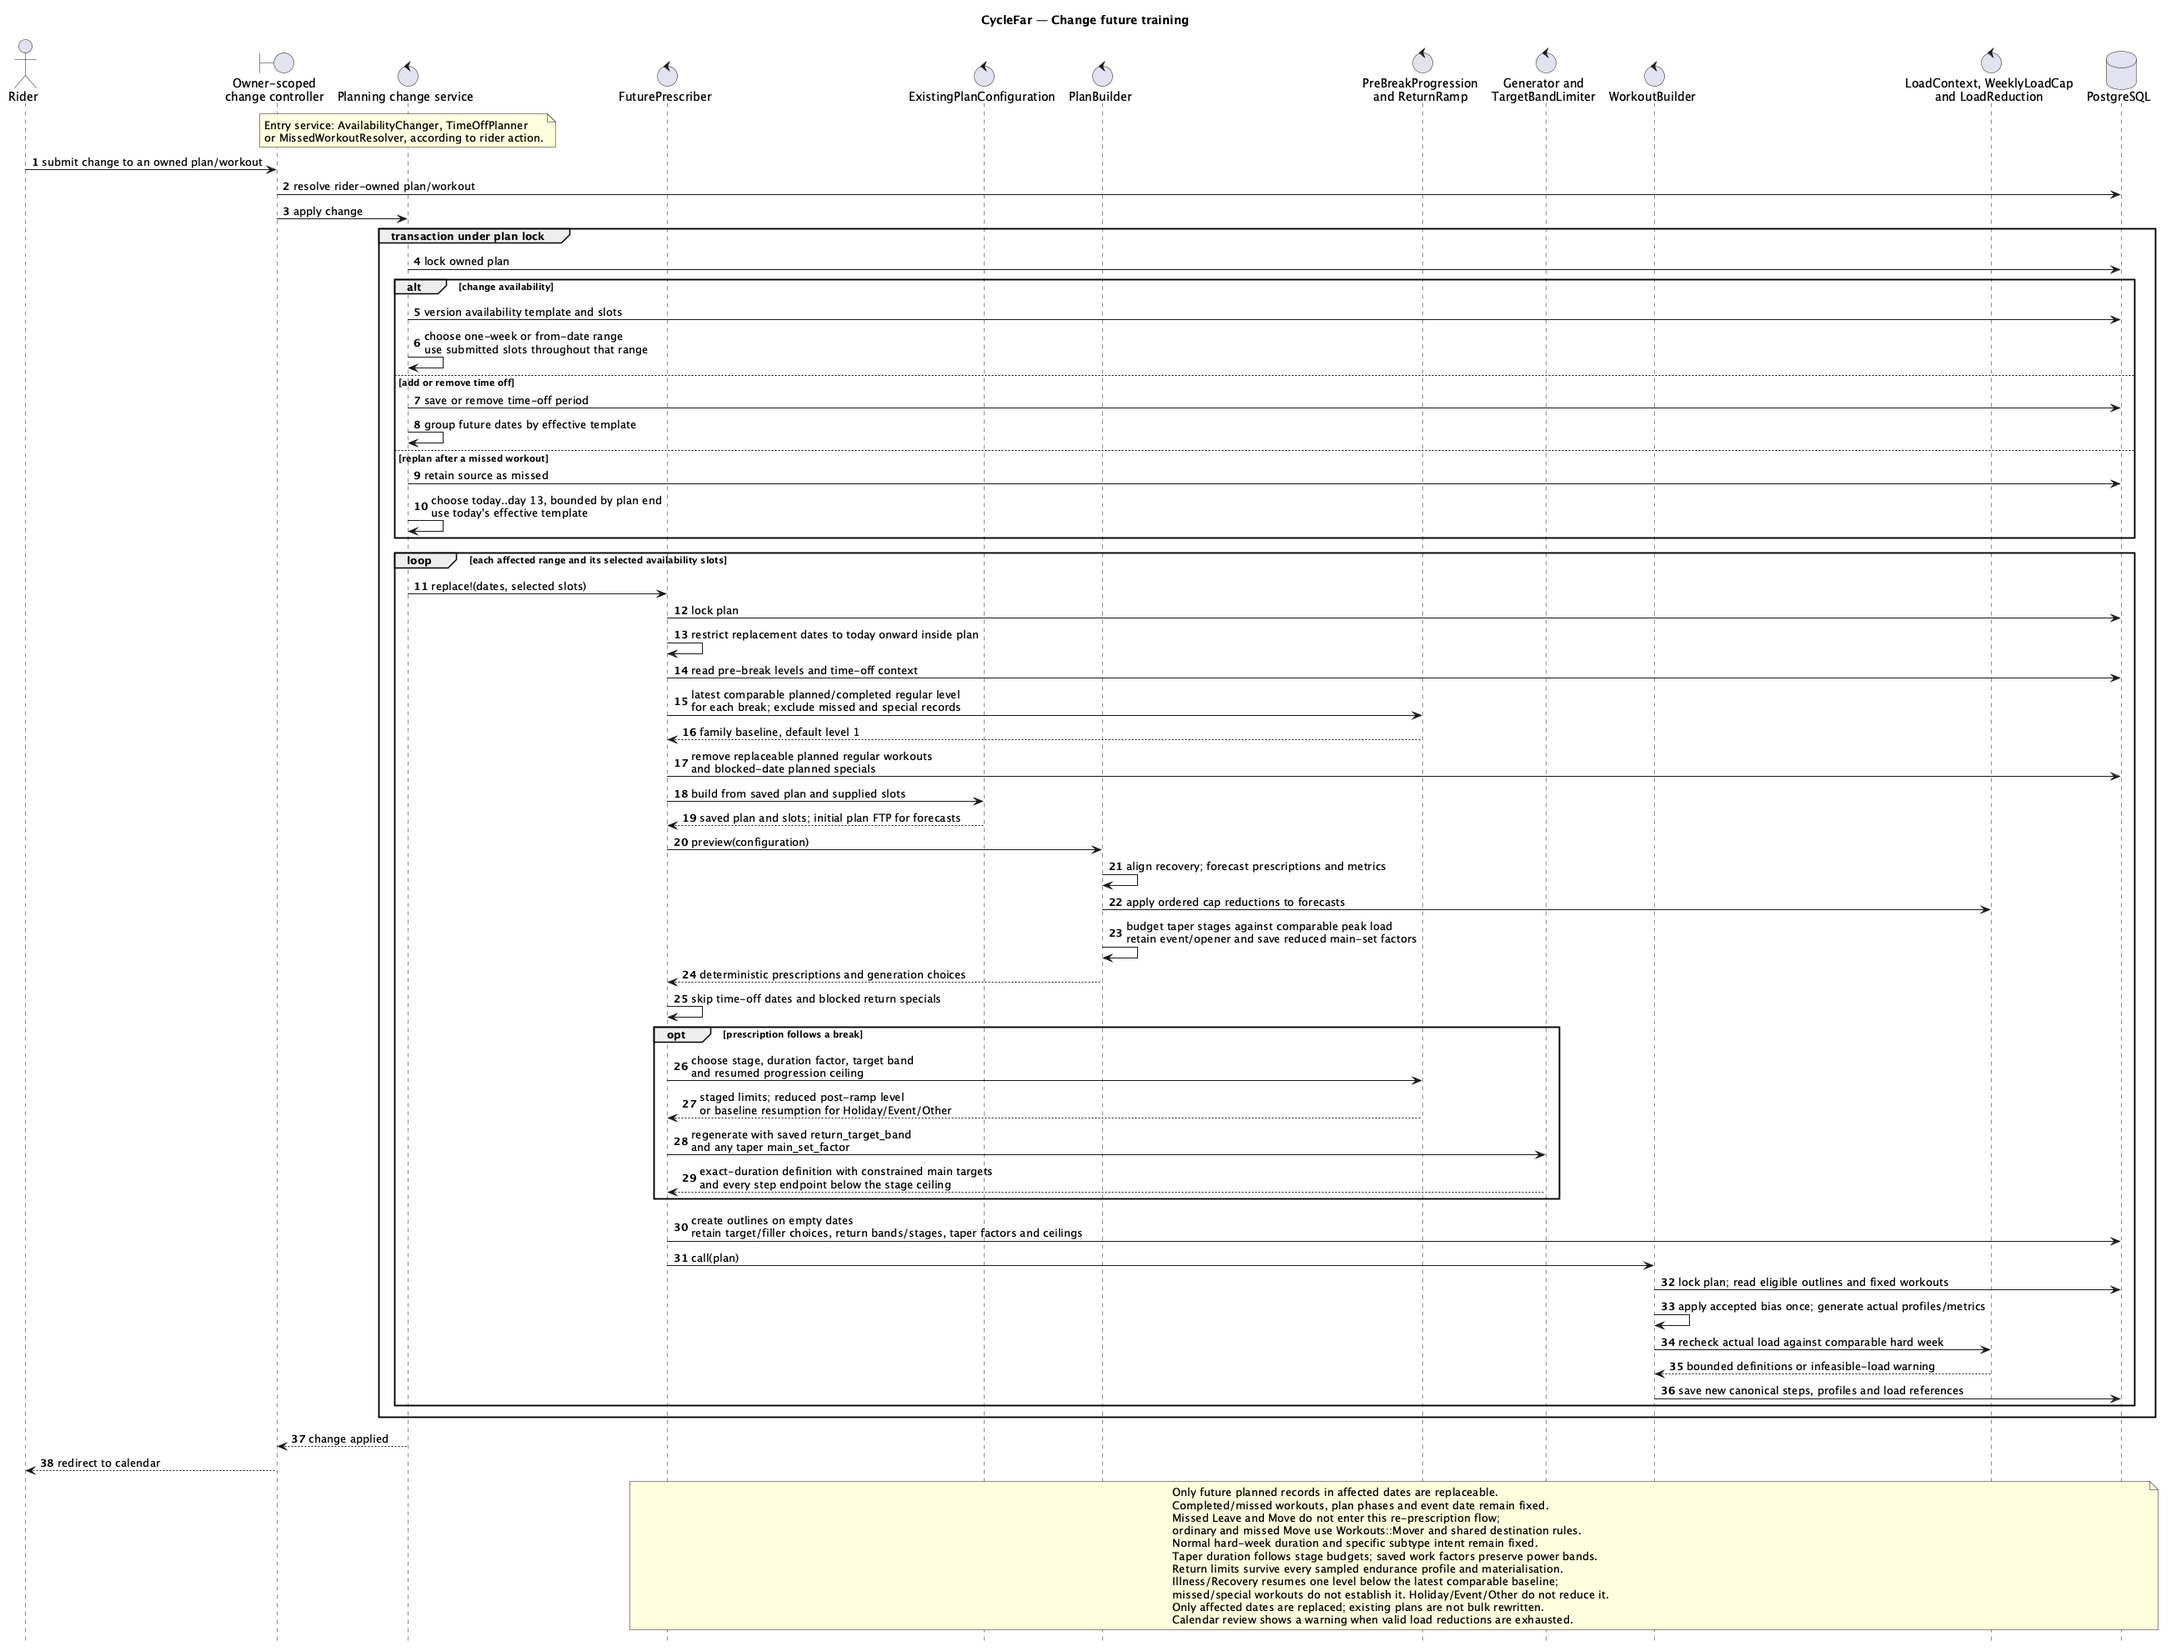
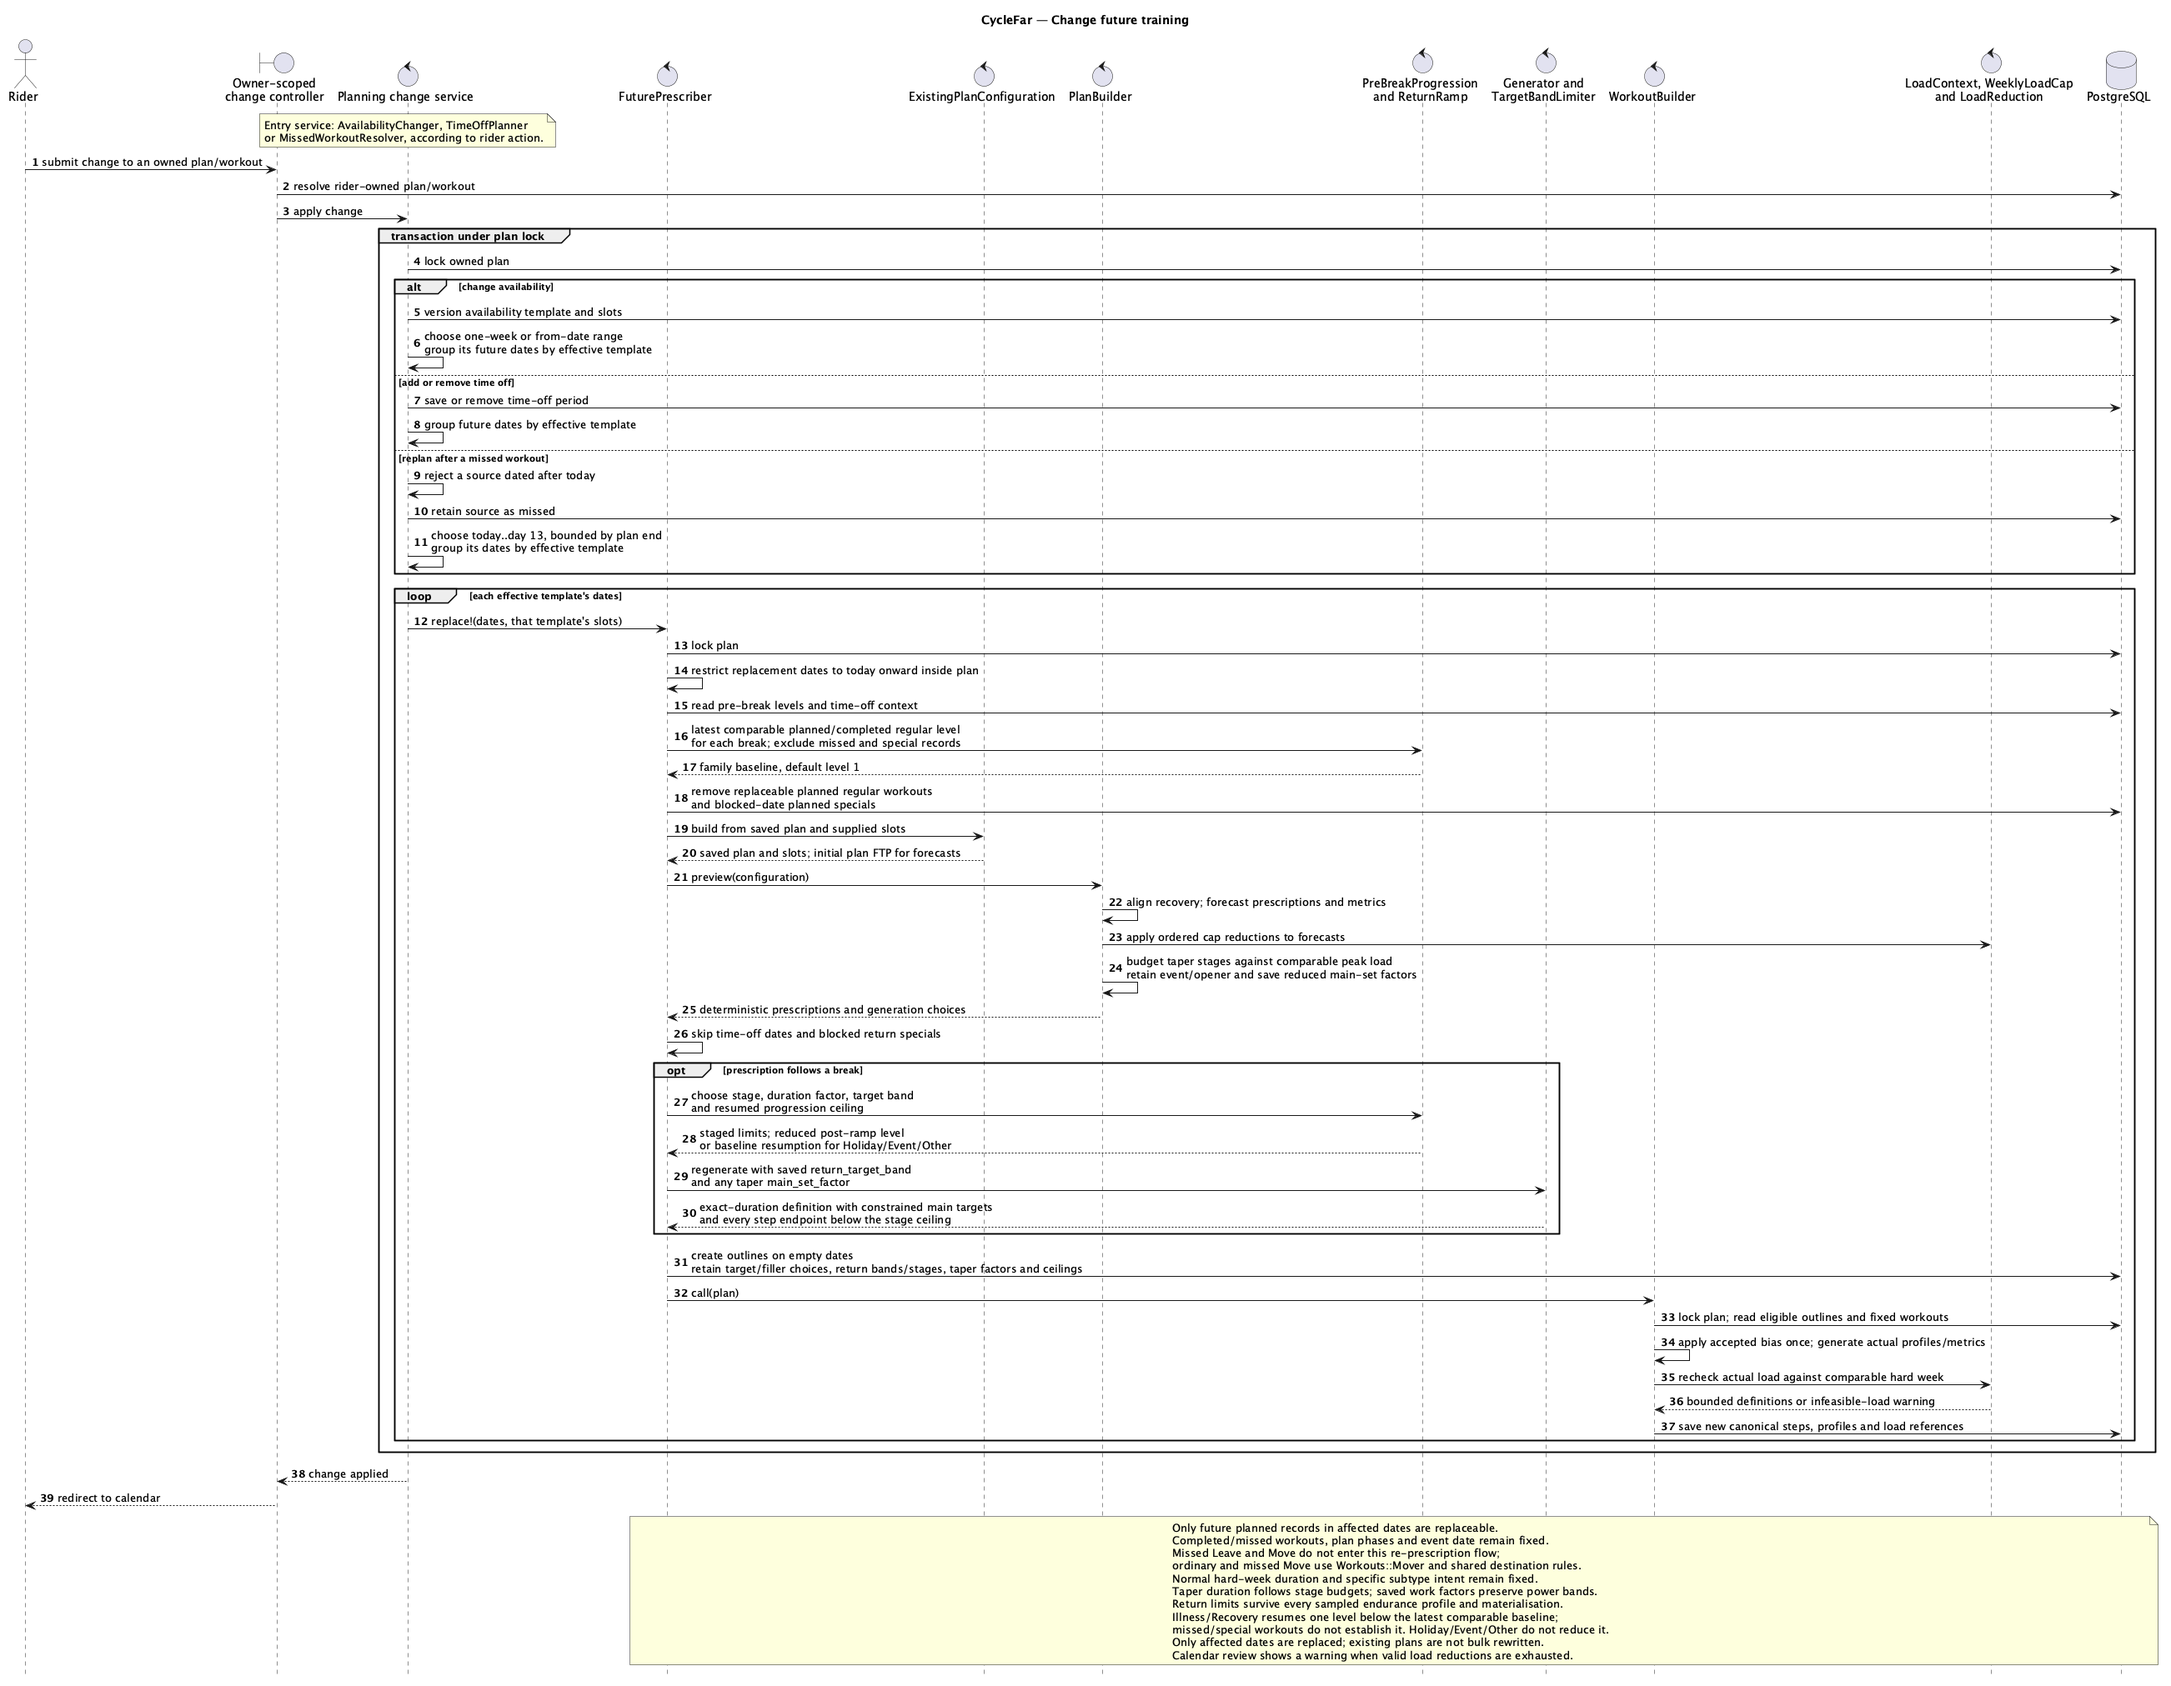
Update diagrams for per-date replans and the missed-date check
The future-replanning sequence, the plan-change component and the
diagrams README still said availability changes use the submitted
slots and missed replans use today's template. All replans now choose
the effective template per date, and only past or current workouts can
be resolved as missed. Regenerate the two affected PNGs.

diff --git a/docs/diagrams/README.md b/docs/diagrams/README.md
@@ -47,7 +47,7 @@ Ordinary and missed Move share `Workouts::Mover` and `DestinationValidator`. Eli
 
 `WeeklyLoadReview` runs after horizon materialisation on calendar requests and checks destination load after a move. It reads fixed canonical workouts and outline forecasts without changing them, so warnings can cover future weeks beyond the detail horizon. Add/Copy and both Move paths share `DestinationValidator` under the plan lock.
 
-Availability changes use the submitted slots throughout the affected one-week or from-date range. Time-off and material-change replans choose the effective availability template per date; missed-workout replanning uses today's effective template for the whole bounded block. `ExistingPlanConfiguration` uses the plan's initial FTP for preview forecasts; actual materialisation and return-workout recalculation use the owner's current FTP. Manual sync selects existing structured detail, without materialising outlines; the controller selects the active plan while `SyncCalendar` validates profile ownership and the API key.
+Availability changes, time-off, material-change and missed-workout replans all choose the effective availability template per date through `FuturePrescriber.replace_with_templates!`, so a one-week override or later from-date change inside the affected range keeps its own slots. Only past or current workouts can be resolved as missed. `ExistingPlanConfiguration` uses the plan's initial FTP for preview forecasts; actual materialisation and return-workout recalculation use the owner's current FTP. Manual sync selects existing structured detail, without materialising outlines; the controller selects the active plan while `SyncCalendar` validates profile ownership and the API key.
 
 `WeeklyLoadCap` and `LoadReduction` enforce the ordered section 27 strategy during previews, actual materialisation and feedback comparisons/acceptance: progression level, lower-load variation, work targets within existing bands, compatible subtype reduction for broad Intervals, then valid short main sets plus easy filler. Normal duration, specific subtype intent and sampled endurance profile identity remain fixed. Generation choices survive outline persistence; infeasible schedules show a non-blocking warning after valid options are exhausted. Partial, recovery, taper, time-off and re-entry weeks do not become comparable hard-week references. Manual one-off overrides retain separate automatic-load references.
 
